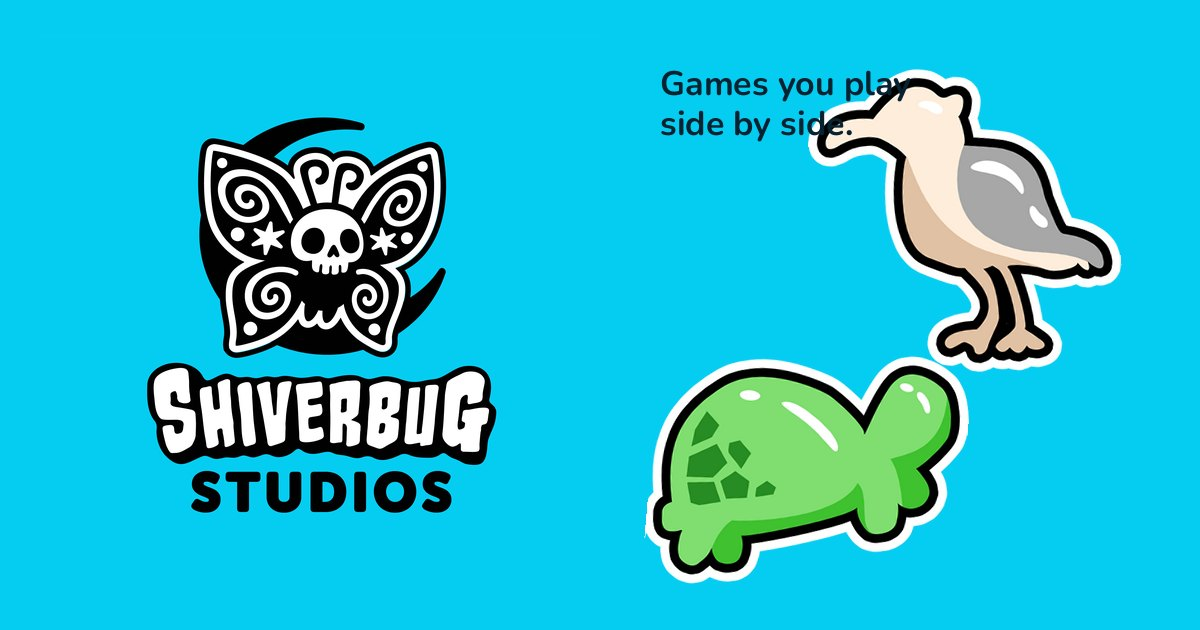
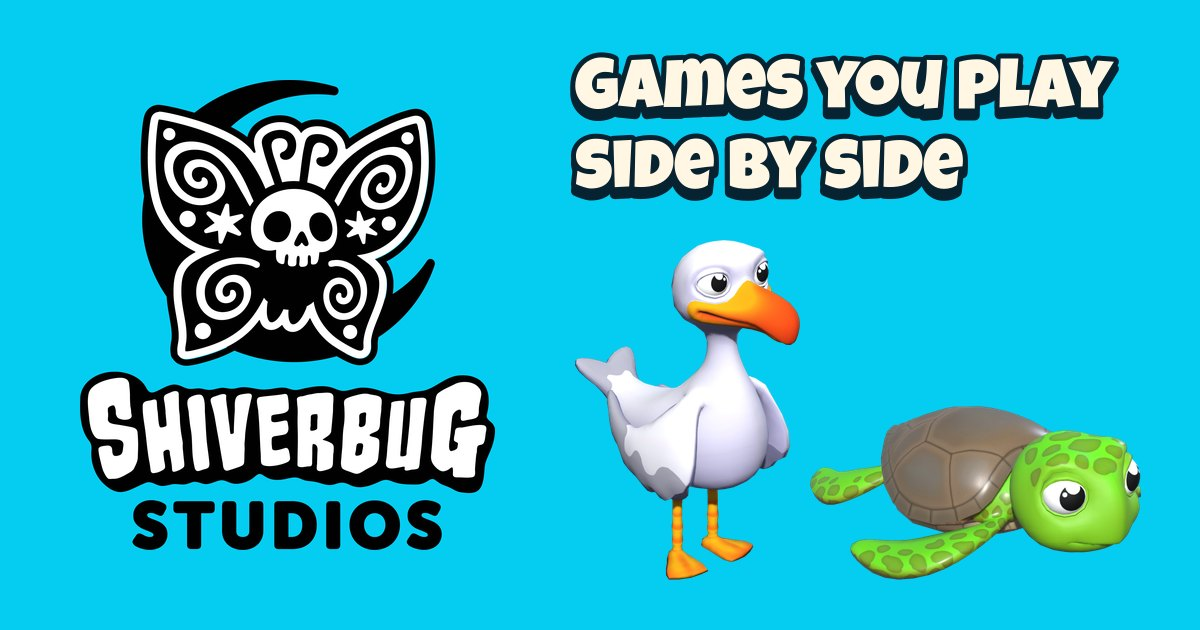
A new link preview card
The card that shows when someone links the site had the seagull sticker
sitting on top of the strapline and an empty middle. Now the logo is on
the left, sized by its artwork, and on the right "Games you play side by
side" is set like the game's own title text over Kiko and Koopa as they
are in the game, with nothing overlapping.

Every page's preview image address now carries a content hash, so
Discord and the rest fetch the new card instead of showing a cached one.

diff --git a/team/avery.html b/team/avery.html
@@ -19,7 +19,7 @@
 <meta property="og:title" content="Avery, 3D Character Artist | Shiverbug Studios">
 <meta property="og:description" content="Avery, 3D Character Artist at Shiverbug Studios. Video games and art have always been a relaxing, comforting space for me, and I have always been interested in how things work behind the scenes and the ways people come together to create an experience.">
 <meta property="og:url" content="https://shiverbugstudios.com/team/avery">
-<meta property="og:image" content="https://shiverbugstudios.com/assets/img/og/studio.jpg">
+<meta property="og:image" content="https://shiverbugstudios.com/assets/img/og/studio.jpg?v=8eb68d0677">
 <meta property="og:image:width" content="1200">
 <meta property="og:image:height" content="630">
 <meta property="og:locale" content="en_GB">

diff --git a/team/patrick-agwuh.html b/team/patrick-agwuh.html
@@ -19,7 +19,7 @@
 <meta property="og:title" content="Patrick Agwuh, 3D Animator | Shiverbug Studios">
 <meta property="og:description" content="Patrick Agwuh, 3D Animator at Shiverbug Studios. I’m a First-Class 3D Animation graduate from Teesside University with a passion for animation, film, and indie animation.">
 <meta property="og:url" content="https://shiverbugstudios.com/team/patrick-agwuh">
-<meta property="og:image" content="https://shiverbugstudios.com/assets/img/og/studio.jpg">
+<meta property="og:image" content="https://shiverbugstudios.com/assets/img/og/studio.jpg?v=8eb68d0677">
 <meta property="og:image:width" content="1200">
 <meta property="og:image:height" content="630">
 <meta property="og:locale" content="en_GB">

diff --git a/team/charlie-pelling.html b/team/charlie-pelling.html
@@ -19,7 +19,7 @@
 <meta property="og:title" content="Charlie Pelling, Narrative Designer | Shiverbug Studios">
 <meta property="og:description" content="Charlie Pelling - Narrative Designer in the Shiverbug Studios talent pool. Narrative designer focused on immersive storytelling and characters players remember.">
 <meta property="og:url" content="https://shiverbugstudios.com/team/charlie-pelling">
-<meta property="og:image" content="https://shiverbugstudios.com/assets/img/og/studio.jpg">
+<meta property="og:image" content="https://shiverbugstudios.com/assets/img/og/studio.jpg?v=8eb68d0677">
 <meta property="og:image:width" content="1200">
 <meta property="og:image:height" content="630">
 <meta property="og:locale" content="en_GB">

diff --git a/index.html b/index.html
@@ -19,7 +19,7 @@
 <meta property="og:title" content="Shiverbug Studios | Games you play side by side">
 <meta property="og:description" content="An independent games studio in Middlesbrough. We’re making Out of Water, a split-screen platformer for two, and we lend our artists, designers and programmers to other studios.">
 <meta property="og:url" content="https://shiverbugstudios.com/">
-<meta property="og:image" content="https://shiverbugstudios.com/assets/img/og/studio.jpg">
+<meta property="og:image" content="https://shiverbugstudios.com/assets/img/og/studio.jpg?v=8eb68d0677">
 <meta property="og:image:width" content="1200">
 <meta property="og:image:height" content="630">
 <meta property="og:locale" content="en_GB">

diff --git a/team/evan-atherton-elphick.html b/team/evan-atherton-elphick.html
@@ -19,7 +19,7 @@
 <meta property="og:title" content="Evan Atherton-Elphick, Character Artist | Shiverbug Studios">
 <meta property="og:description" content="Evan Atherton-Elphick - Character Artist in the Shiverbug Studios talent pool. A Teesside graduate making fun, expressive characters in 3D.">
 <meta property="og:url" content="https://shiverbugstudios.com/team/evan-atherton-elphick">
-<meta property="og:image" content="https://shiverbugstudios.com/assets/img/og/studio.jpg">
+<meta property="og:image" content="https://shiverbugstudios.com/assets/img/og/studio.jpg?v=8eb68d0677">
 <meta property="og:image:width" content="1200">
 <meta property="og:image:height" content="630">
 <meta property="og:locale" content="en_GB">

diff --git a/team/sarah-childs.html b/team/sarah-childs.html
@@ -19,7 +19,7 @@
 <meta property="og:title" content="Sarah Childs, Character Concept Artist | Shiverbug Studios">
 <meta property="og:description" content="Sarah Childs - Character Concept Artist at Shiverbug Studios. Fantasy, historical and RPG character design driven by research and world-building.">
 <meta property="og:url" content="https://shiverbugstudios.com/team/sarah-childs">
-<meta property="og:image" content="https://shiverbugstudios.com/assets/img/og/studio.jpg">
+<meta property="og:image" content="https://shiverbugstudios.com/assets/img/og/studio.jpg?v=8eb68d0677">
 <meta property="og:image:width" content="1200">
 <meta property="og:image:height" content="630">
 <meta property="og:locale" content="en_GB">

diff --git a/team/connor-milburn.html b/team/connor-milburn.html
@@ -19,7 +19,7 @@
 <meta property="og:title" content="Connor Milburn, 3D Artist | Shiverbug Studios">
 <meta property="og:description" content="Connor Milburn - 3D Artist at Shiverbug Studios. Environment and prop artist working in Blender, ZBrush, the Substance Suite, Unreal Engine and Unity.">
 <meta property="og:url" content="https://shiverbugstudios.com/team/connor-milburn">
-<meta property="og:image" content="https://shiverbugstudios.com/assets/img/og/studio.jpg">
+<meta property="og:image" content="https://shiverbugstudios.com/assets/img/og/studio.jpg?v=8eb68d0677">
 <meta property="og:image:width" content="1200">
 <meta property="og:image:height" content="630">
 <meta property="og:locale" content="en_GB">

diff --git a/co-development.html b/co-development.html
@@ -19,7 +19,7 @@
 <meta property="og:title" content="Co-development | Shiverbug Studios">
 <meta property="og:description" content="Concept art, stylised and hard-surface 3D, level design and gameplay programming for other studios, from the team making Out of Water. Unity and Unreal Engine 5.">
 <meta property="og:url" content="https://shiverbugstudios.com/co-development">
-<meta property="og:image" content="https://shiverbugstudios.com/assets/img/og/studio.jpg">
+<meta property="og:image" content="https://shiverbugstudios.com/assets/img/og/studio.jpg?v=8eb68d0677">
 <meta property="og:image:width" content="1200">
 <meta property="og:image:height" content="630">
 <meta property="og:locale" content="en_GB">

diff --git a/team/garrett-windus.html b/team/garrett-windus.html
@@ -19,7 +19,7 @@
 <meta property="og:title" content="Garrett Windus, 3D Artist | Shiverbug Studios">
 <meta property="og:description" content="Garrett Windus - co-founder and former 3D Artist at Shiverbug Studios. A realistic vehicle artist who switched to building stylised environments.">
 <meta property="og:url" content="https://shiverbugstudios.com/team/garrett-windus">
-<meta property="og:image" content="https://shiverbugstudios.com/assets/img/og/studio.jpg">
+<meta property="og:image" content="https://shiverbugstudios.com/assets/img/og/studio.jpg?v=8eb68d0677">
 <meta property="og:image:width" content="1200">
 <meta property="og:image:height" content="630">
 <meta property="og:locale" content="en_GB">

diff --git a/team/martin-wilkinson.html b/team/martin-wilkinson.html
@@ -19,7 +19,7 @@
 <meta property="og:title" content="Martin Wilkinson, 3D Artist | Shiverbug Studios">
 <meta property="og:description" content="Martin Wilkinson - 3D Artist at Shiverbug Studios. Environment artist drawn to stylised games, strong silhouettes and places worth exploring.">
 <meta property="og:url" content="https://shiverbugstudios.com/team/martin-wilkinson">
-<meta property="og:image" content="https://shiverbugstudios.com/assets/img/og/studio.jpg">
+<meta property="og:image" content="https://shiverbugstudios.com/assets/img/og/studio.jpg?v=8eb68d0677">
 <meta property="og:image:width" content="1200">
 <meta property="og:image:height" content="630">
 <meta property="og:locale" content="en_GB">

diff --git a/team/megan-nicol.html b/team/megan-nicol.html
@@ -19,7 +19,7 @@
 <meta property="og:title" content="Megan Nicol, Character Concept Artist | Shiverbug Studios">
 <meta property="og:description" content="Megan Nicol, Character Concept Artist at Shiverbug Studios. I’m a creative 2D artist who specialises in Character and Creature design.">
 <meta property="og:url" content="https://shiverbugstudios.com/team/megan-nicol">
-<meta property="og:image" content="https://shiverbugstudios.com/assets/img/og/studio.jpg">
+<meta property="og:image" content="https://shiverbugstudios.com/assets/img/og/studio.jpg?v=8eb68d0677">
 <meta property="og:image:width" content="1200">
 <meta property="og:image:height" content="630">
 <meta property="og:locale" content="en_GB">

diff --git a/team/josh-cairns.html b/team/josh-cairns.html
@@ -19,7 +19,7 @@
 <meta property="og:title" content="Josh Cairns, 3D Artist | Shiverbug Studios">
 <meta property="og:description" content="Josh Cairns - 3D Artist in the Shiverbug Studios talent pool. A stylised environment artist working in Blender, ZBrush, Substance Painter and Unreal.">
 <meta property="og:url" content="https://shiverbugstudios.com/team/josh-cairns">
-<meta property="og:image" content="https://shiverbugstudios.com/assets/img/og/studio.jpg">
+<meta property="og:image" content="https://shiverbugstudios.com/assets/img/og/studio.jpg?v=8eb68d0677">
 <meta property="og:image:width" content="1200">
 <meta property="og:image:height" content="630">
 <meta property="og:locale" content="en_GB">
